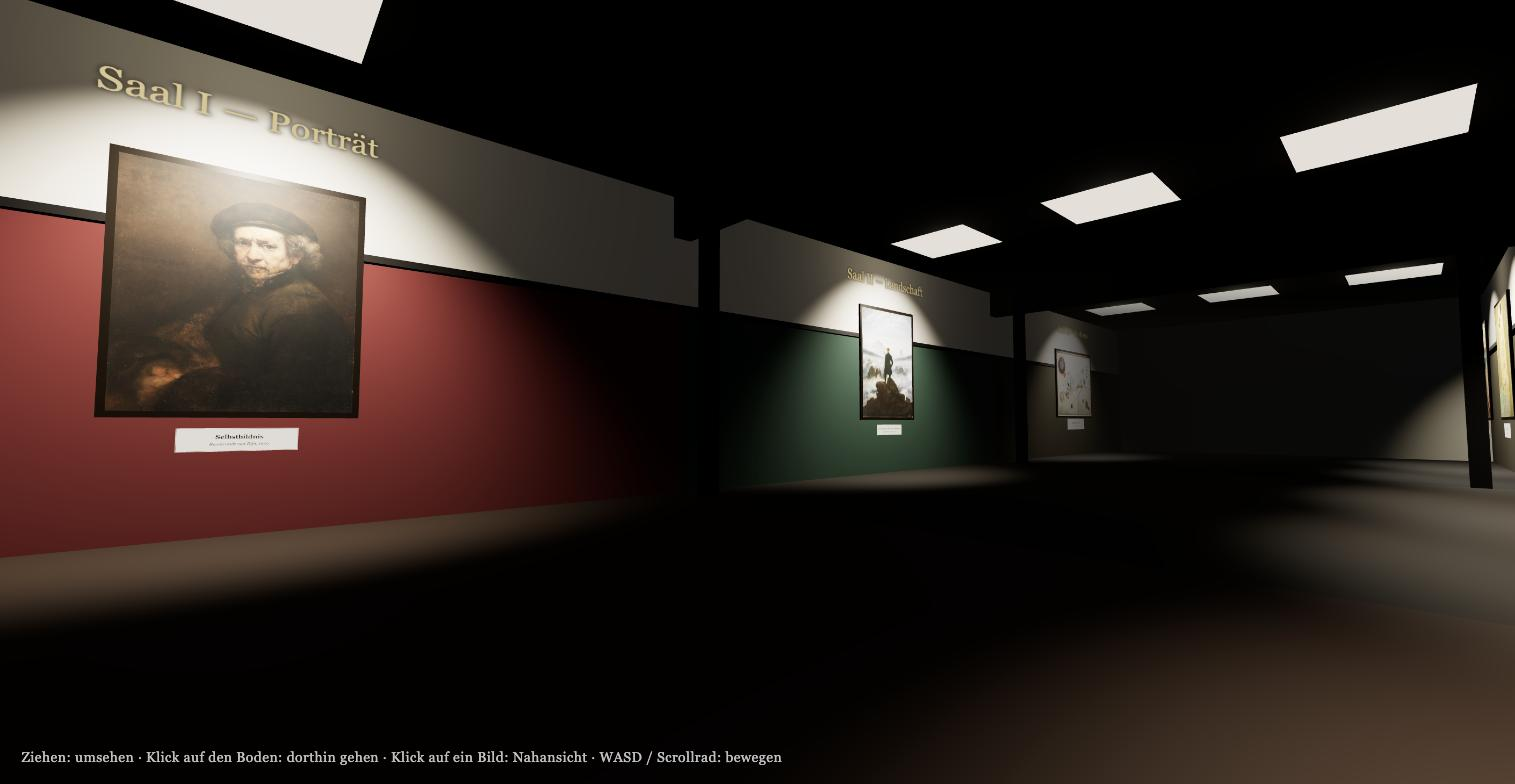
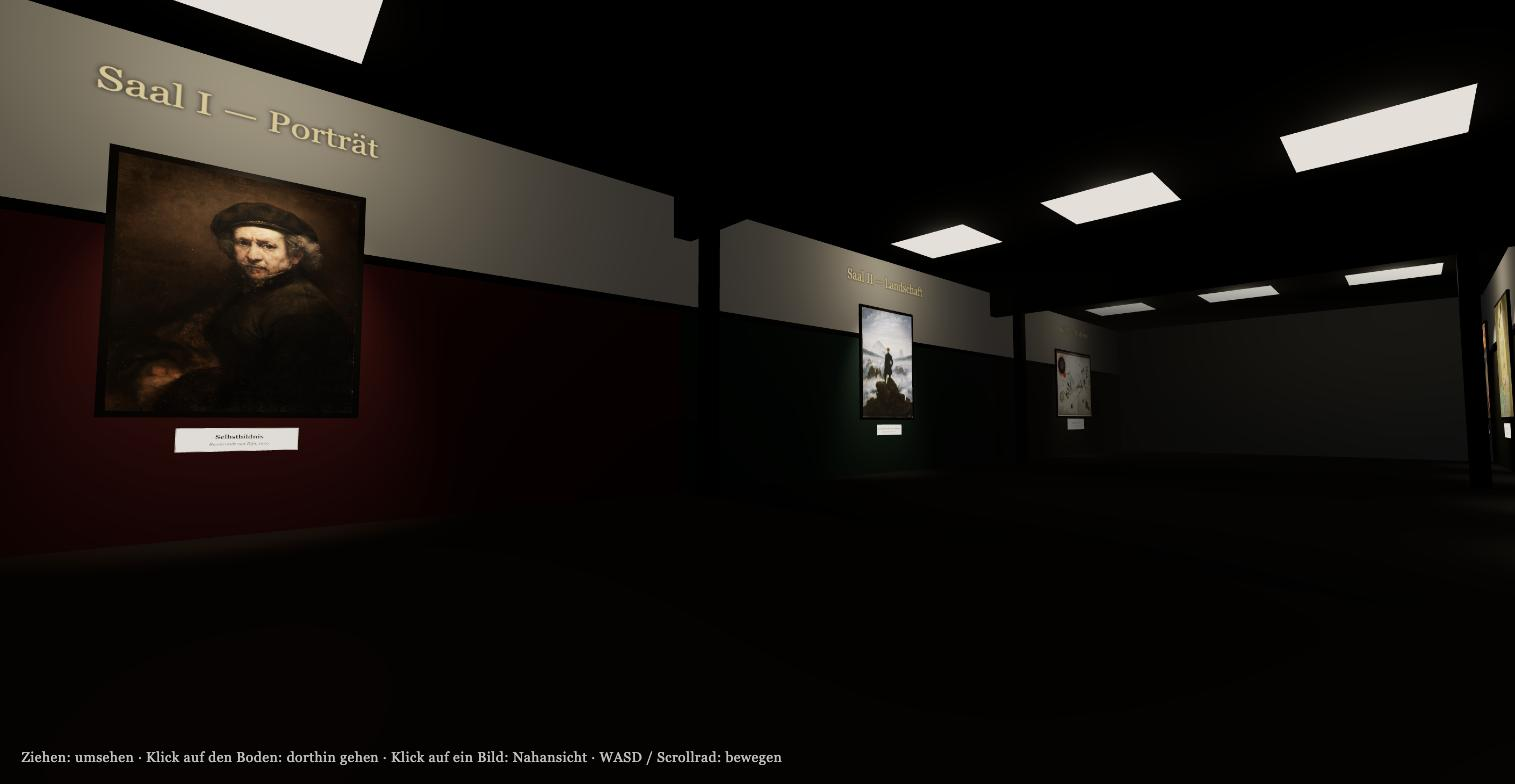
Stop the spotlights washing out the paintings
The canvas material was glossy (roughness 0.55) under a 42-intensity, 54-degree
spot, so every painting carried a broad specular sheen that flattened its
contrast, with a white halo bleeding onto the wall above the frame.

- Make the canvas near-matte and carry the texture as an emissive map, so the
  artwork keeps its true colors instead of depending on being flooded with light
- Narrow the spots to 30 degrees and cut their intensity, museum-style
- Take the frame's gloss down too
- Lift the ceiling point lights and hemisphere light, so the accent walls keep
  their color now that the spots no longer flood them

Refresh the screenshot and note the tuning in CLAUDE.md.

diff --git a/index.html b/index.html
@@ -163,7 +163,7 @@ document.body.appendChild(renderer.domElement);
 camera.rotation.order = 'YXZ';
 
 /* Grundbeleuchtung */
-scene.add(new THREE.HemisphereLight(0x8899aa, 0x100c08, 0.35));
+scene.add(new THREE.HemisphereLight(0x8899aa, 0x100c08, 0.5));
 const sun = new THREE.DirectionalLight(0xfff2df, 0.25);
 sun.position.set(10, 20, 10);
 scene.add(sun);
@@ -244,7 +244,18 @@ function buildPainting(def, maxW, maxH) {
   tex.generateMipmaps = true;
   tex.minFilter = THREE.LinearMipmapLinearFilter;
 
-  const canvasMat = new THREE.MeshStandardMaterial({ map: tex, roughness: 0.55, metalness: 0.0 });
+  // Ölfarbe auf Leinwand ist matt: hohe Rauheit, damit das Spotlicht keinen
+  // breiten Glanzschleier über das Bild legt. Die Emissive-Map trägt die
+  // Originalfarben unabhängig vom Licht bei — so bleibt der Kontrast erhalten,
+  // statt vom Scheinwerfer ausgewaschen zu werden.
+  const canvasMat = new THREE.MeshStandardMaterial({
+    map: tex,
+    emissive: 0xffffff,
+    emissiveMap: tex,
+    emissiveIntensity: 0.45,
+    roughness: 0.98,
+    metalness: 0.0,
+  });
   const canvasMesh = new THREE.Mesh(new THREE.PlaneGeometry(width, h), canvasMat);
   canvasMesh.castShadow = false;
   canvasMesh.receiveShadow = true;
@@ -256,7 +267,7 @@ function buildPainting(def, maxW, maxH) {
   // Rahmen
   const frameT = 0.09;
   const frameDepth = 0.06;
-  const frameMat = new THREE.MeshStandardMaterial({ color: 0x2b2118, roughness: 0.4, metalness: 0.35 });
+  const frameMat = new THREE.MeshStandardMaterial({ color: 0x2b2118, roughness: 0.65, metalness: 0.15 });
   const mkBar = (w, hh) => {
     const m = new THREE.Mesh(new THREE.BoxGeometry(w, hh, frameDepth), frameMat);
     m.position.z = -frameDepth / 2 - 0.005;
@@ -276,17 +287,18 @@ function buildPainting(def, maxW, maxH) {
   placard.position.z = 0.01;
   group.add(placard);
 
-  // Spotlicht — "projiziert" das Bild an die Wand (kräftig & groß)
+  // Strahler wie im Museum: enger, weicher Kegel dicht an der Wand statt
+  // Flutlicht — sonst überstrahlt der Lichtfleck Bild und Wand.
   // Feste Höhe relativ zur Decke (nicht von h abhängig), damit hohe Hochformate die Leuchte nicht durch die Decke schieben
-  const spot = new THREE.SpotLight(0xfff6e4, 42, 16, THREE.MathUtils.degToRad(54), 0.6, 1.1);
-  spot.position.set(0, ROOM_H * 0.5 - 0.5, 2.3);
+  const spot = new THREE.SpotLight(0xfff4e0, 11, 13, THREE.MathUtils.degToRad(30), 0.8, 1.25);
+  spot.position.set(0, ROOM_H * 0.5 - 0.5, 1.7);
   spot.target = canvasMesh;
   spot.castShadow = false;
   group.add(spot);
   group.add(spot.target);
 
-  // zweiter, weicherer Streulichtkegel für einen größeren, volleren Lichtpool
-  const fill = new THREE.SpotLight(0xfff6e4, 16, 10, THREE.MathUtils.degToRad(66), 0.85, 1.3);
+  // sehr dezenter Streulichtkegel, damit die Ränder nicht hart abreißen
+  const fill = new THREE.SpotLight(0xfff4e0, 3.5, 9, THREE.MathUtils.degToRad(48), 0.95, 1.4);
   fill.position.set(0, ROOM_H * 0.5 - 1.5, 1.4);
   fill.target = canvasMesh;
   fill.castShadow = false;
@@ -339,7 +351,9 @@ function buildRoom(index, def) {
     panel.rotation.x = Math.PI / 2;
     panel.position.set(ROOM_W / 2, ROOM_H - 0.02, 2.5 + i * 4.5);
     group.add(panel);
-    const pl = new THREE.PointLight(0xfff2d8, 3.2, 9, 2);
+    // Raumlicht trägt jetzt die Wandhelligkeit, seit die Strahler nur noch
+    // die Bilder betonen — sonst versinken die Farbwände im Schwarz
+    const pl = new THREE.PointLight(0xfff2d8, 5.0, 12, 2);
     pl.position.set(ROOM_W / 2, ROOM_H - 0.4, 2.5 + i * 4.5);
     group.add(pl);
   }

diff --git a/CLAUDE.md b/CLAUDE.md
@@ -12,6 +12,7 @@ A walkable 3D art museum rendered entirely client-side with Three.js. The whole 
 - **Scene setup**: standard Three.js scene/camera/renderer boilerplate, ACES tone mapping, fog for depth.
 - **Room construction** (`buildRoom`): builds floor, ceiling with light panels, front/back walls (two-tone: accent lower band, light upper band), side walls (solid or open doorway depending on room position), and a genre sign above the entrance.
 - **Painting construction** (`buildPainting`): fits each painting's texture into a bounding box preserving aspect ratio, adds a frame, a placard (rendered to a canvas texture), and two spotlights.
+- **Painting lighting** — deliberately tuned, don't undo it casually: the canvas material is near-matte (`roughness: 0.98`) and carries the texture as an `emissiveMap` at `emissiveIntensity: 0.45`, so the artwork shows its true colors independent of the lights. Spots are narrow (30°) and dim (11) rather than floodlights. The earlier glossy material under a 42-intensity, 54° spot put a specular sheen over every painting and a white halo on the wall. Room brightness comes from the ceiling `PointLight`s, not the picture lights — raise those if a hall looks too dark, not the spots.
 - **Collision**: simple AABB colliders (`colliders` array) checked against a circular player radius in `resolveCollision`.
 - **Look**: dragging rotates the camera using the "grab" metaphor — the scene follows the pointer, as in Street View or OrbitControls (`applyLook` *adds* the delta to yaw/pitch; an FPS scheme would subtract it). No Pointer Lock API, so the cursor stays free to click things.
 - **Movement**: WASD/arrows feed `velFwd`/`velStrafe`, which are lerped toward the input each frame for smooth start/stop; the scroll wheel adds to `wheelVel`, an impulse that decays exponentially. Both are applied along the camera yaw in the render loop.

diff --git a/README.md b/README.md
@@ -10,7 +10,7 @@ A walkable 3D art gallery in the browser — three themed halls (Portrait, Lands
 
 - Navigation that follows familiar web conventions — drag to look, click the floor to walk there, click a painting to view it
 - Three galleries: Portrait, Landscape, and Modern art, each with its own accent color and lighting
-- High-resolution paintings loaded from Wikimedia Commons, spotlit on the gallery walls
+- High-resolution paintings loaded from Wikimedia Commons, lit by narrow spots that pick out the artwork without washing it out
 - Hovering a painting shows its title and artist; clicking walks you up to it, even from another hall
 - Collision detection against walls so you can't walk through them
 - Works on touch devices: drag to look, tap to select
